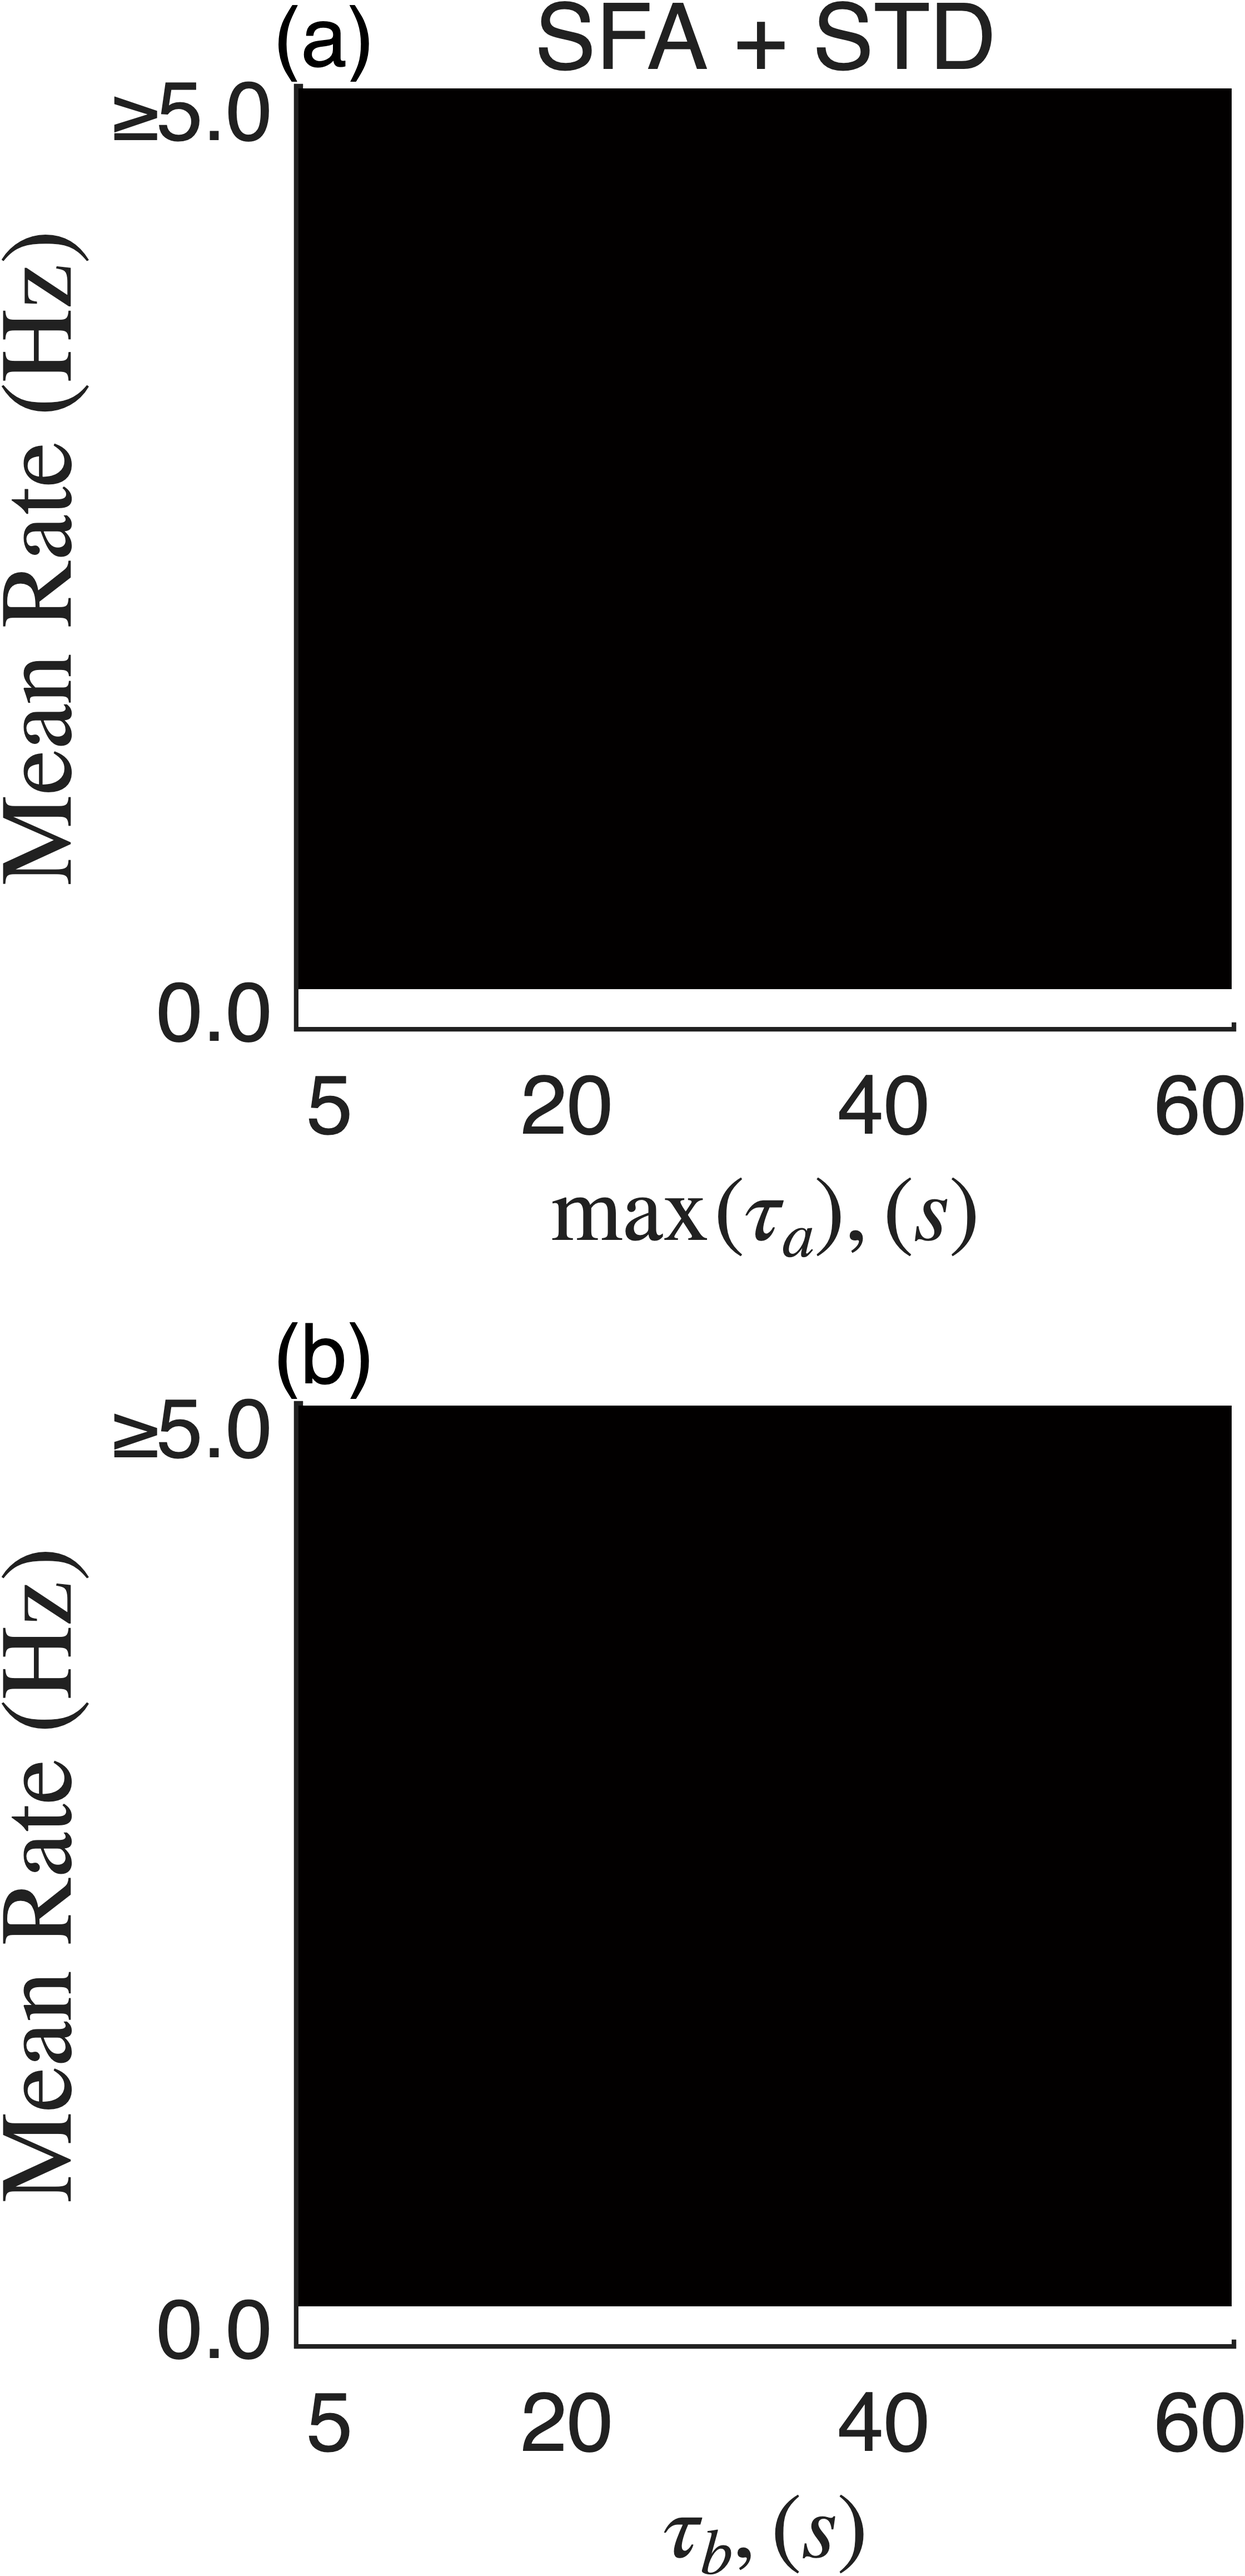
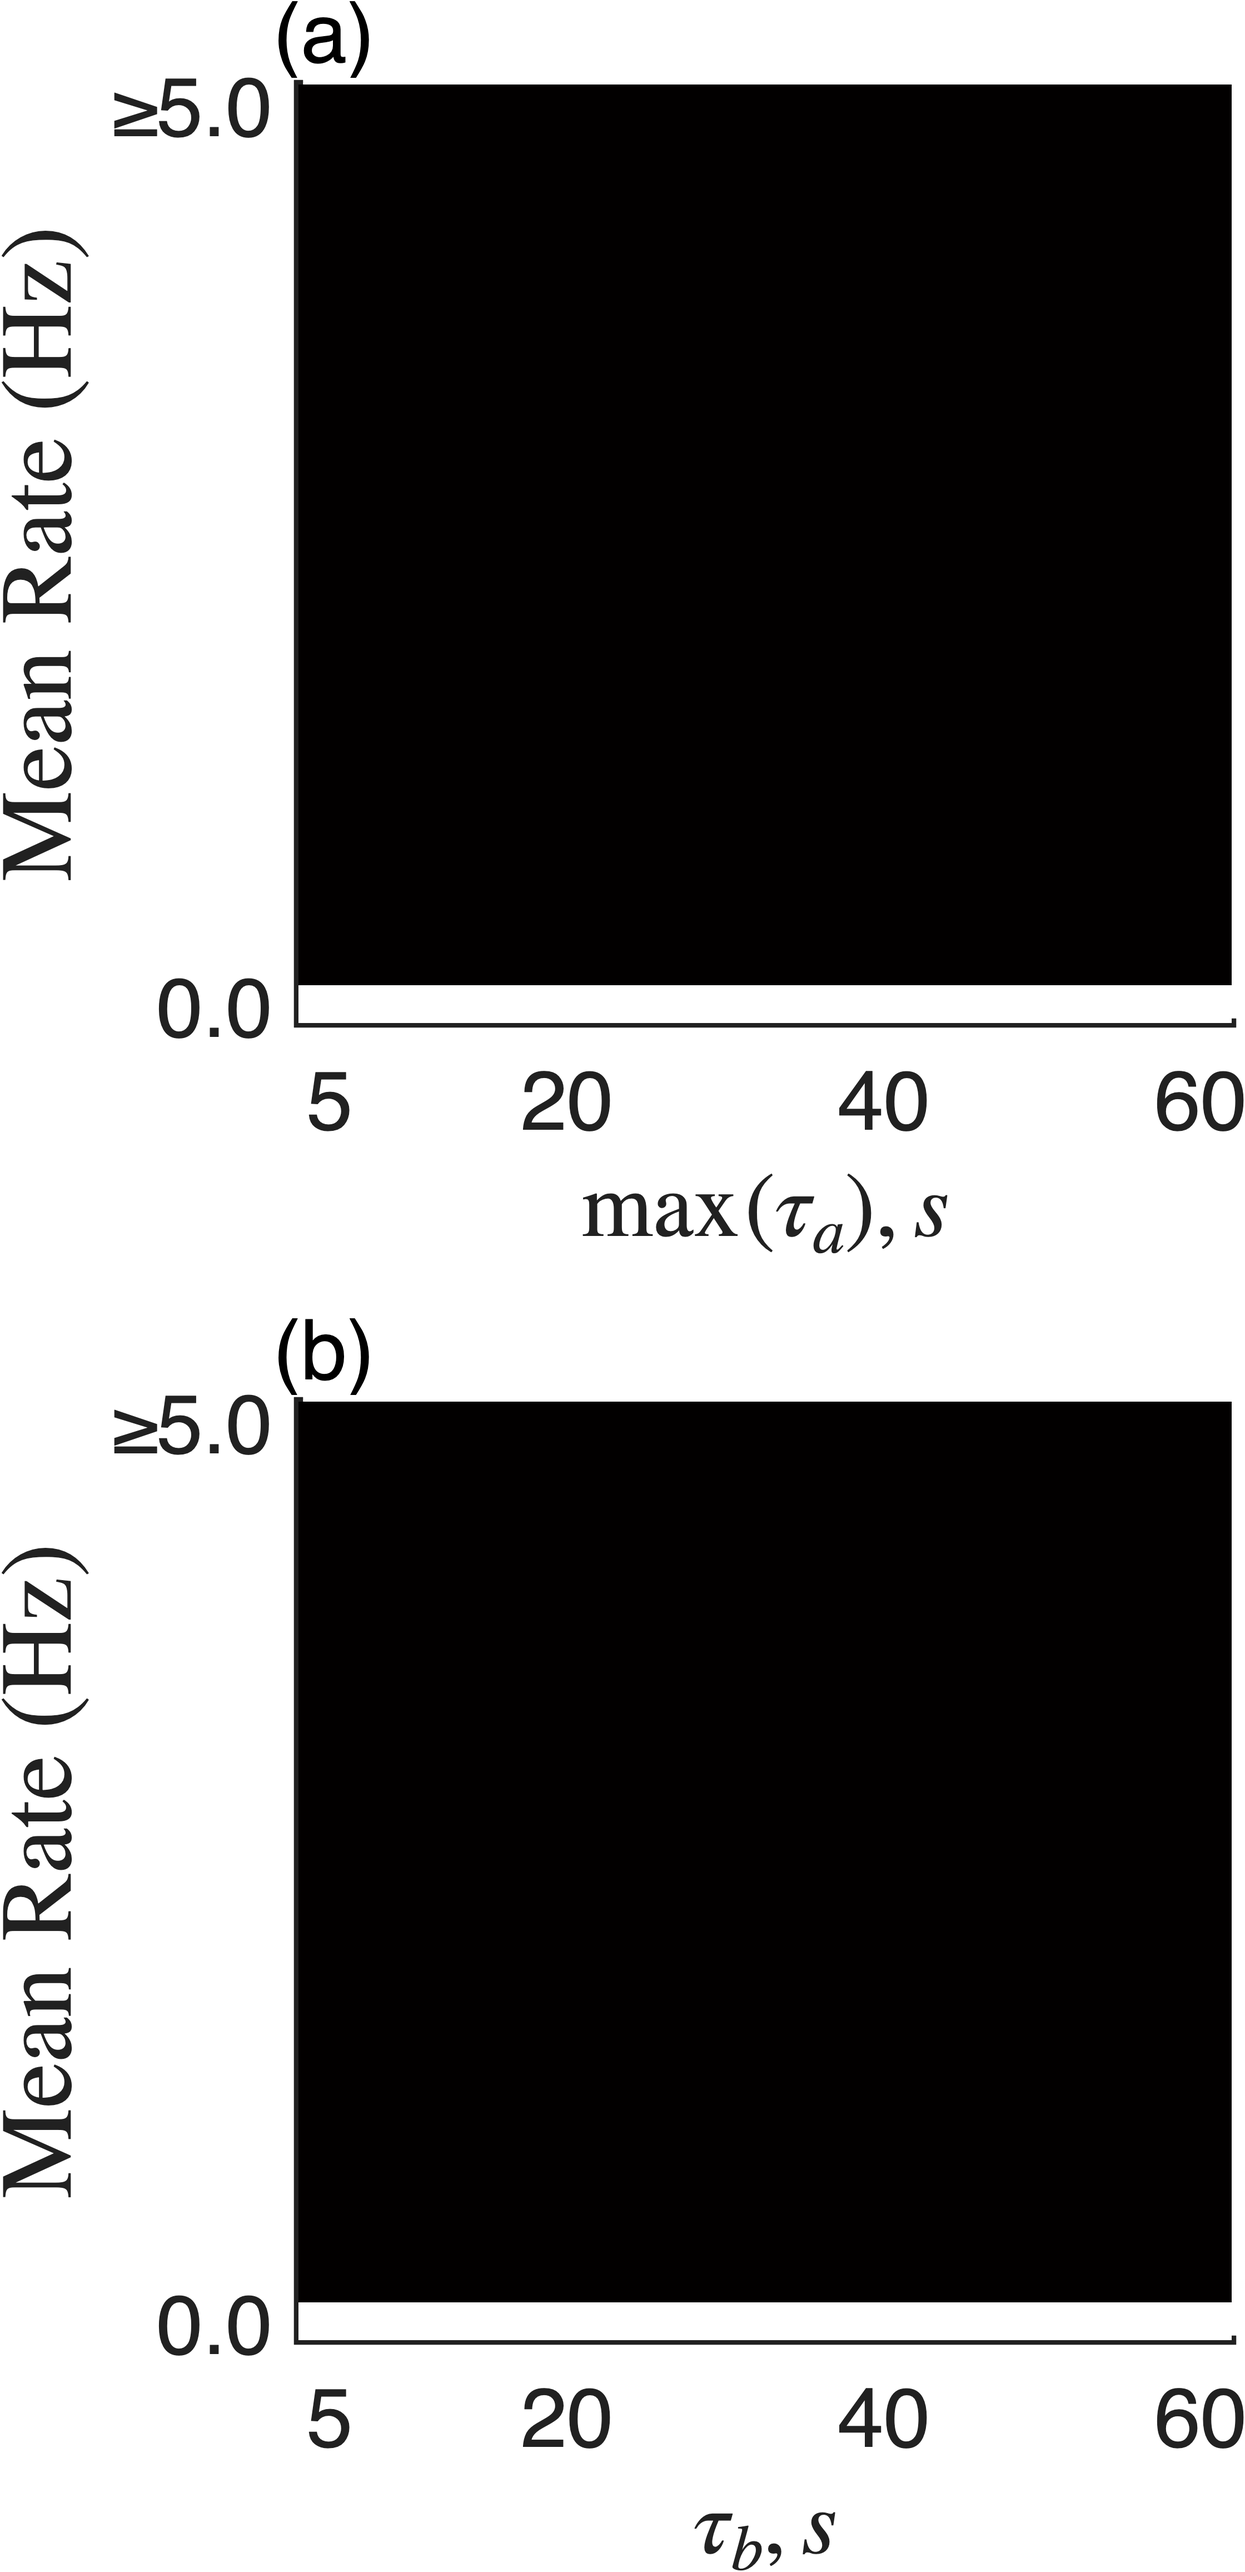
fixed the fig letter labeling order by fixing get_axes_of_subplots_in_fig.m and regenerated figs

diff --git a/src/supporting_functions/plotting_saving/get_axes_of_subplots_in_fig.m b/src/supporting_functions/plotting_saving/get_axes_of_subplots_in_fig.m
@@ -1,26 +1,58 @@
-function axes_in_fig = get_axes_of_subplots_in_fig(fig_handle)
-% get_axes_of_subplots_in_fig - Finds all main subplot axes in a figure.
+function axes_in_fig = get_axes_of_subplots_in_fig(fig_handle, sort_direction)
+% get_axes_of_subplots_in_fig - Finds and sorts all main subplot axes in a figure.
 %
 % This function finds all axes objects in a given figure, but excludes
-% common non-subplot axes like legends, colorbars, and helper axes created
-% by functions like `add_scalebar_outside_subplot`.
+% common non-subplot axes like legends, colorbars, and helper axes. It then
+% sorts the axes by their position on the figure.
 %
 % Syntax:
-%   axes_in_fig = get_axes_of_subplots_in_fig(fig_handle)
+%   axes_in_fig = get_axes_of_subplots_in_fig(fig_handle, sort_direction)
 %
 % Inputs:
 %   fig_handle - (Optional) Handle to the figure object. Defaults to gcf.
+%   sort_direction - (Optional) 'LeftRight' (default) or 'TopDown'.
 %
 % Outputs:
-%   axes_in_fig - An array of handles to the identified subplot axes.
+%   axes_in_fig - A sorted array of handles to the identified subplot axes.
 
 if nargin < 1
     fig_handle = gcf;
 end
+if nargin < 2
+    sort_direction = 'LeftRight'; % Default sort order
+end
 
-axes_in_fig = findall(fig_handle, 'type', 'axes', ...
+% Find all axes, excluding some by tag
+lAxes_unsorted = findall(fig_handle, 'type', 'axes', ...
     '-not', {'Tag', 'legend'}, ...
     '-not', {'Tag', 'Colorbar'}, ...
     '-not', {'Tag', 'scalebar_text_ax'});
+
+if isempty(lAxes_unsorted)
+    axes_in_fig = lAxes_unsorted;
+    return;
+end
+
+% Sort axes by position
+Pos = NaN(length(lAxes_unsorted), 2);
+for ia = 1:length(lAxes_unsorted)
+    ax = lAxes_unsorted(ia);
+    Pos(ia, :) = [ax.InnerPosition(1),  ax.InnerPosition(2)];
+end
+
+% Invert Y position for sorting because lower Y is higher on the figure
+Pos(:, 2) = -Pos(:, 2); 
+
+switch sort_direction
+    case 'LeftRight'
+        [~, ind] = sortrows(Pos, [2, 1]); % Sort by Y (top-to-bottom), then X (left-to-right)
+    case 'TopDown'
+        [~, ind] = sortrows(Pos, [1, 2]); % Sort by X (left-to-right), then Y (top-to-bottom)
+    otherwise
+        warning('Unknown sort direction: %s. Using default ''LeftRight''.', sort_direction);
+        [~, ind] = sortrows(Pos, [2, 1]);
+end
+
+axes_in_fig = lAxes_unsorted(ind);
 
 end

diff --git a/fig_scripts/SRNN_paper/tau_a_E_edge_of_chaos/tau_a_sensitivity_plot_caller.m b/fig_scripts/SRNN_paper/tau_a_E_edge_of_chaos/tau_a_sensitivity_plot_caller.m
@@ -13,8 +13,8 @@ custom_x_labels = containers.Map('KeyType', 'char', 'ValueType', 'char');
 custom_x_labels('EE_factor') = 'Mean E-to-E Weight';
 custom_x_labels('mean_weight') = 'Mean Weight';
 custom_x_labels('n') = '\# Neurons in Network';
-custom_x_labels('tau_a_E_2') = '$\max(\tau_a),  (s)$';
-custom_x_labels('tau_b_E_2') = '$\tau_b,  (s)$';
+custom_x_labels('tau_a_E_2') = '$\max(\tau_a),  s$';
+custom_x_labels('tau_b_E_2') = '$\tau_b,  s$';
 
 % Define scaling factors for x-tick labels for specific parameters
 rescale_x_ticks = containers.Map('KeyType', 'char', 'ValueType', 'double');
@@ -262,11 +262,11 @@ function plot_single_metric(sp_ax, param_file, hist_bins, metric_name, y_label_m
         end
         
         % Set titles and labels for the grid
-        if i == 1           % top-row → write condition title
-            title(sp_ax, condition_title, ...
-                  'Interpreter','none', ...   % plain text
-                  'FontWeight','normal');     % not bold
-        end
+        % if i == 1           % top-row → write condition title
+        %     title(sp_ax, condition_title, ...
+        %           'Interpreter','none', ...   % plain text
+        %           'FontWeight','normal');     % not bold
+        % end
         
         % Set y-label for the first column only
         if c_idx == 1 

diff --git a/src/SRNN/SRNN_utils/SRNN_tseries_figure_IED.m b/src/SRNN/SRNN_utils/SRNN_tseries_figure_IED.m
@@ -305,7 +305,7 @@ elseif strcmpi(sr_or_poisson, 'sr_stacked')
     ylabel('Spike Rate');
     yticks([]);
     % set(gca, 'XColor', 'none');
-    xlabel('Time, (s)')
+    xlabel('Time, s')
 
     % add a vertical scale bar
     scale_bar_height_data = 25;

diff --git a/src/SRNN/SRNN_utils/SRNN_tseries_figure.m b/src/SRNN/SRNN_utils/SRNN_tseries_figure.m
@@ -421,7 +421,7 @@ box off;
 ylim([0 1.1]); 
 yticks([0 1]);
 if strcmpi(Lya_method, 'none')
-    xlabel('Time (s)');
+    xlabel('Time, s');
 else
     set(gca, 'XTickLabel', []);
     set(gca, 'XTick', []);
